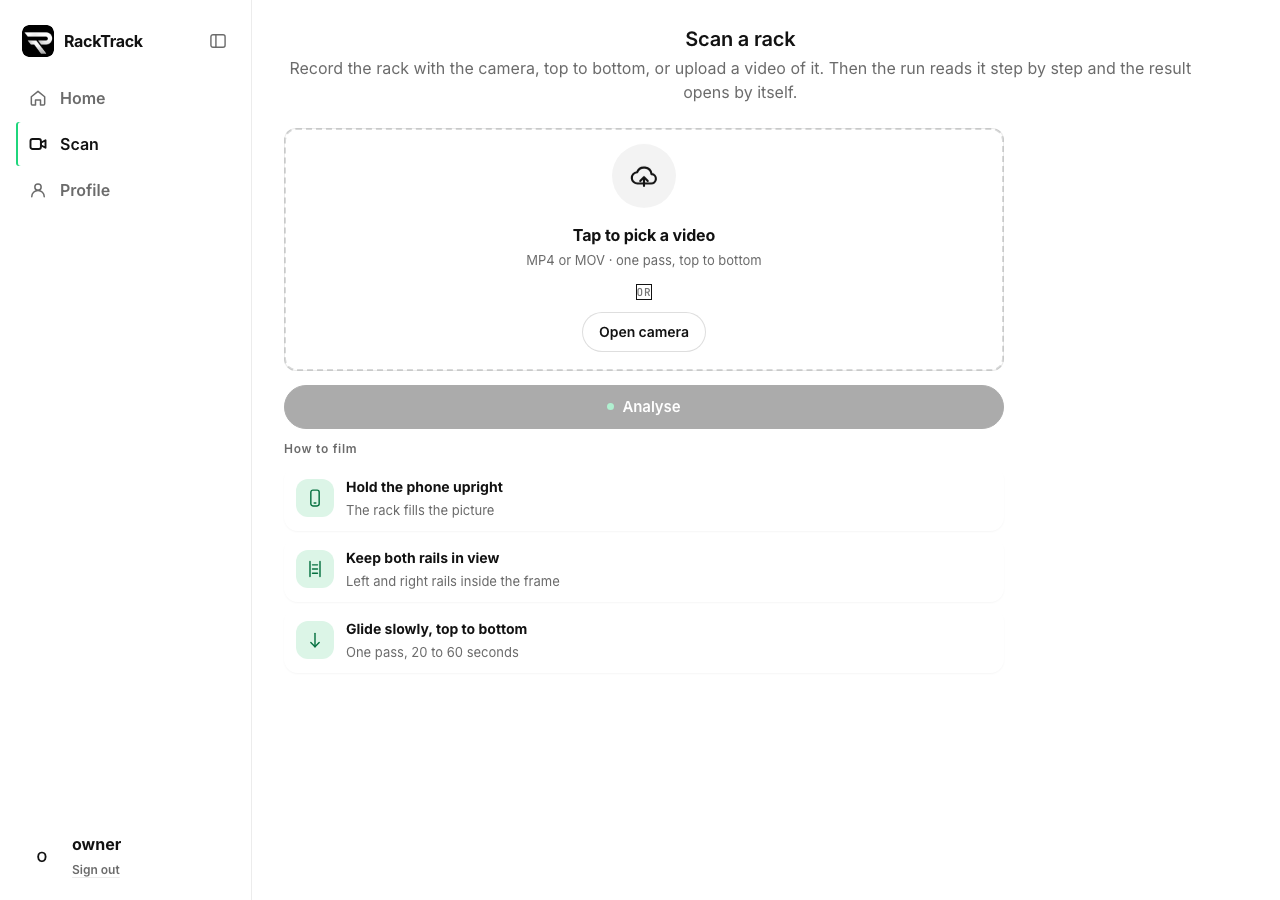
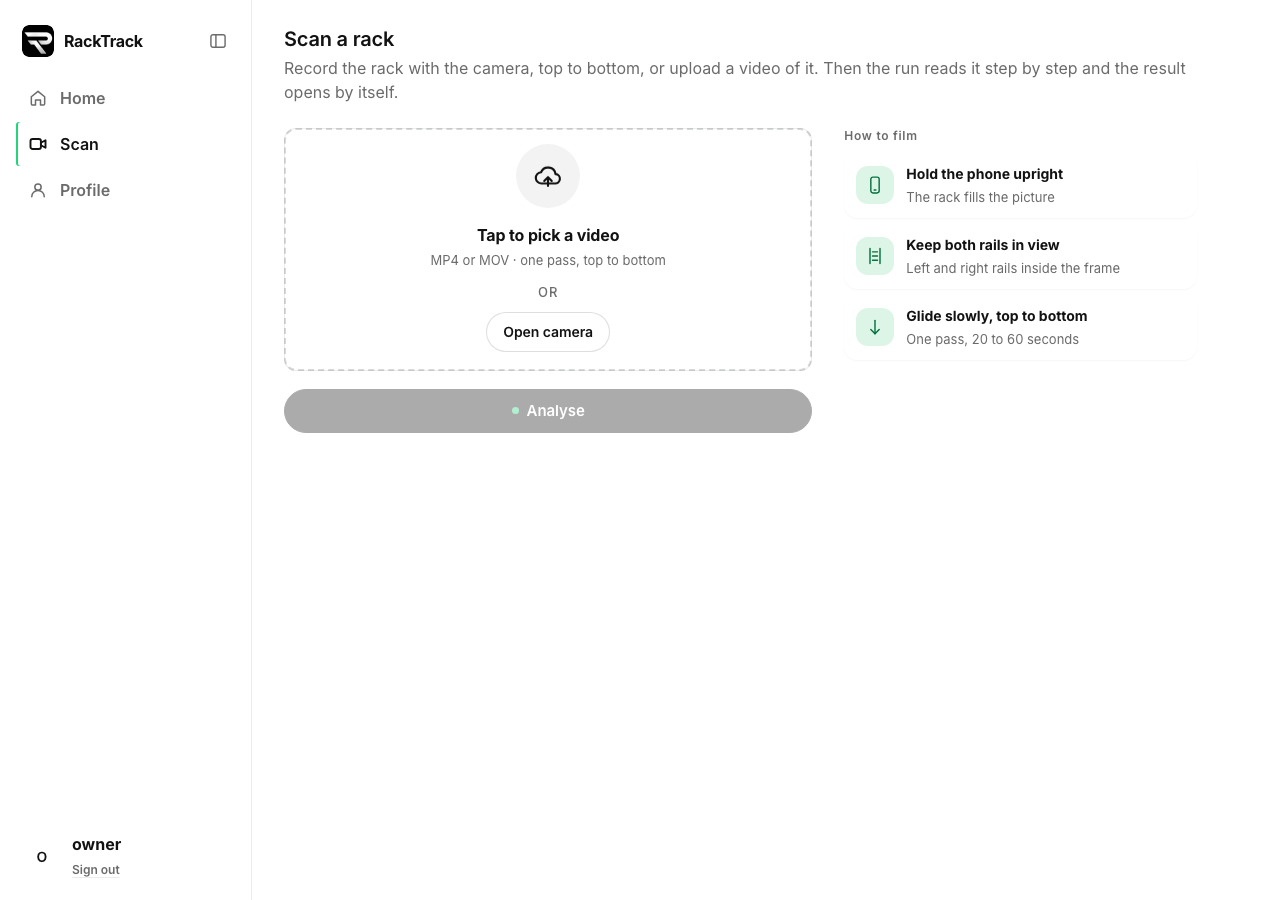
Status and handover for the evening: how to start the three services, the three-part result with the compare in the Report, the rack identification, the evaluation, the sign-in merge and what is still open; the topology build reads the RT-EOS client inside this folder, not RT-EOS's own

diff --git a/docs/TODAY-STATUS.md b/docs/TODAY-STATUS.md
@@ -4,11 +4,16 @@ Everything runs inside racktrack-app's own server (server/app.py) and screens (m
 
 ## How to start it
 
-    ./engine.sh      # the engine and the screens on http://127.0.0.1:8700/app/ (through scripts/with-model-lock.sh, OMP_NUM_THREADS=2)
-    ./sources.sh     # the NetBox mock on 127.0.0.1:3301 and the ServiceNow mock on 127.0.0.1:5301 (no model, no lock)
+    ./auth.sh        # the sign-in service on 127.0.0.1:3302 (first start: data/auth/.env, the /org/ screens, the seeded accounts)
+    ./engine.sh      # the engine and the screens on http://127.0.0.1:8700/app/ (it takes the machine-wide model lock only around a model run)
+    ./sources.sh     # the NetBox mock on 127.0.0.1:3303 and the ServiceNow mock on 127.0.0.1:3304 (no model, no lock)
 
-Open http://127.0.0.1:8700/app/, sign in with any name, open a finished run, then the Drift tab.
-Stop them by their real pids: `kill $(lsof -ti TCP:8700 -sTCP:LISTEN) $(lsof -ti TCP:3301) $(lsof -ti TCP:5301)`.
+Open http://127.0.0.1:8700/app/ and sign in (accounts in docs/AUTH.md; the password is in data/auth/seed-password.txt). The stored runs from
+before sign-in are seen by the platform owner (owner). Open a rack from Home; the compare is in its Report.
+Stop them by their real pids: `kill $(lsof -ti TCP:8700 -sTCP:LISTEN) $(lsof -ti TCP:3302 -sTCP:LISTEN) $(lsof -ti TCP:3303) $(lsof -ti TCP:3304)`.
+
+The sections below are the morning and afternoon record; the evening section at the end says what changed since (the Drift tab is
+gone: the compare now lives in the Report).
 
 ## What works (each one run today)
 
@@ -40,7 +45,7 @@ Two more rows show on every source because they are real: the PDU at U24 is miss
 - Serials and asset tags are empty in the office rack's CSV and the video reads none, so no serial row can appear today.
 
 ## Changes to the plan and why
-- The two mocks use ports 3301 and 5301, the only free ports allowed by the brief while RT-EOS and the dev client are not running today. Tomorrow, when RT-EOS takes 3301, the mocks need two other ports agreed by the owner (RACKTRACK_NETBOX_URL and RACKTRACK_SERVICENOW_URL set them; only 127.0.0.1 is ever called).
+- The two mocks used ports 3301 and 5301 in the morning; since the sign-in merge they run on 3303 and 3304 (RACKTRACK_NETBOX_URL and RACKTRACK_SERVICENOW_URL set them; only 127.0.0.1 is ever called).
 - The Database choice lives at the top of the Drift tab rather than on a screen of its own: one place per run, the least new code.
 - No new video run was made: the stored vdo1 run is the same video (a new upload of the same bytes reopens the stored run in the engine).
 
@@ -80,3 +85,17 @@ Owed: restart the engine, run `_cache/venv/bin/python tools/proof_afternoon.py` 
 - The office workbook's own LOOKUPS list Port_Type without RJ45, so its 346 port rows each get a "value not in LOOKUPS" warning. RT-EOS does the same.
 - The A_Z_CONNECTION_MATRIX rows are counted but not checked: this app copies no cables yet.
 - Organizations: one today. The copies are not yet kept per organization (the logins are).
+
+# Evening: cross-check, one flow, rack identification, evaluation, sign-in merged (2 Nov 2026)
+
+| Piece | State | What proves it |
+| --- | --- | --- |
+| Cross-check, live | done | docs/CROSSCHECK.md: proof_today and proof_afternoon run live for the first time (proof_today fixed to press Import), the whole flow walked at 1280 and 400 px (tools/proof_crosscheck.py, docs/proof/crosscheck), every fix listed there. Those three scripts drive the old Drift tab and name-only sign-in and are kept as the record of that check; tools/proof_flow.py replaces them. |
+| One kind per device | done | src/source_db.py device_kind: a correction, then the faceplate, then the picture, with the source in words; used by the view, status, port reader and drift. D1 "Router, from the faceplate; the picture said Switch", D2 "Firewall, from the faceplate" (docs/proof/flow/device_D1_*, device_D2_*). |
+| The flow | done | Home lists each rack once (its latest run, the record it was compared with, the number of differences, how many scans). Scan is record or upload, then the run. The result has three parts: Rack, Devices, Report. The Report holds the compare: the database dropdown and Compare against the database, the rack identification with proof and confidence, Continue, the differences short or detailed (record value, video value, unit, device crop, what to check), and the earlier scans of the rack in a closed dropdown at the bottom. Copy-in and logins live under Profile. tools/proof_flow.py at 1280 and 400 px on our rack with all three sources (docs/proof/flow); tools/proof_widths.py every screen at 1800, 1280 and 400 px (docs/proof/widths). |
+| Rack identification | done | src/source_db.py identify, the rungs and thresholds of the two rack_identity.js ladders: 0 confirmed before (kept per rack label in the organization's copies), 1 location (optional phone position on the upload; site positions copied in from NetBox sites and ServiceNow cmn_location; test positions in the ground truth), 2 the rack label with the strip above the first unit as proof, 3 serials, asset tags and models read on faceplates, 4 rack height (narrows only), 5 rack number in device labels, 6 layout. The first step that leaves one rack names it; each step has a confidence and a reason; overall confidence combined as the ladder scores, Verified at 70 % or more; top 3 or "Which rack is this?" when no step names one. A person's kind, make or model correction is kept by rack label and unit and applied to the next scan of that rack. tests/test_source_db.py (5 tests). |
+| Evaluation | done | tools/evaluate.py, docs/EVALUATION.md. vdo1: 10 of 11 checkable devices found, units 10 of 10, kind 10 of 10, make and model 4 of 4 read (10 in the record), missing 1 (PDU at U24, outside the video), extra 0; the drift agrees on every count. The two WhatsApp runs: 6 of 9 and 6 of 14 found, units off by one or two; drift and evaluation pair them differently there (start within one unit against overlap), explained in the file. |
+| Sign-in merged | done | wt/auth merged (--no-ff); Google, Apple and Facebook sign-in removed; no self sign-up (the platform owner creates organizations, Contact us on the sign-in screen, kept in data/contact); five roles by name (docs/AUTH.md); test runs in a Test Organization only. tools/proof_auth.py on 8700: 24 of 24 checks without screenshots after the last change, 29 of 30 with screenshots before it (the one failure was the invite site name, fixed). RT-EOS server tests for these parts: 76 of 76. |
+| Model lock | changed | engine.sh starts the server without the wrapper; server/app.py ModelLock takes the same machine-wide lock directory only around a model run, so an idle server never holds it. |
+
+Still open: the second and third "Seen in the video" views of D1 and D2 answer 404 (no frame holds the whole box); the location step has never seen a real phone position (no run carries one, the site positions are test values); the report's device table at 400 px is cramped; copies made by the platform owner live in the owner's own copies file, so the owner's compare of a pre-sign-in run uses those; the Chennai DC test site created by the first proof run remains in the Demo Organization (its fixture runs were removed and its two test accounts moved to the Test Organization).

diff --git a/docs/HANDOVER.md b/docs/HANDOVER.md
@@ -20,3 +20,9 @@ racktrack-app is the core: its video engine reads a rack from a sweep video. We 
 - Known: device kinds at U20 and U19 of vdo1 differ between classifier and make-and-model step; the two WhatsApp videos' unit numbering is off by one or two; their ground truth needs the owner's confirmation; the CSV has no serials.
 - Owner's feedback on the UI: the flow is not understood and the experience is poor. Tomorrow's first job is one clear flow: Home (racks and their state), Scan (record, upload, run progress), Result in order (rack picture, devices read, the record and the matched rack, the differences, the report), each step saying what comes next, in the RT-EOS minimal look.
 - Not done: sign-in and organizations, the other RT-EOS functions, serials and asset tags, the other two videos end to end, the GitHub push (remote set, token needed).
+
+## State at 2 Nov 16:10 (evening)
+- Start: ./auth.sh (sign-in on 3302), ./engine.sh (8700, takes the model lock only around a model run), ./sources.sh (mocks on 3303 and 3304). Sign in with the accounts in docs/AUTH.md; the stored runs from before sign-in show for the platform owner.
+- The result is three parts: Rack, Devices, Report; the compare (rack identification steps 0 to 6 with proof and confidence, then the differences) lives in the Report. Copy-in and logins are under Profile. Proof: tools/proof_flow.py, tools/proof_widths.py.
+- docs/CROSSCHECK.md (the live cross-check), docs/EVALUATION.md (tools/evaluate.py), docs/AUTH.md (sign-in, five roles, removals), docs/TODAY-STATUS.md (evening table and what is still open).
+- tools/proof_today.py, proof_afternoon.py and proof_crosscheck.py drive the old Drift tab and name-only sign-in: kept as the record, no longer runnable as they are.
